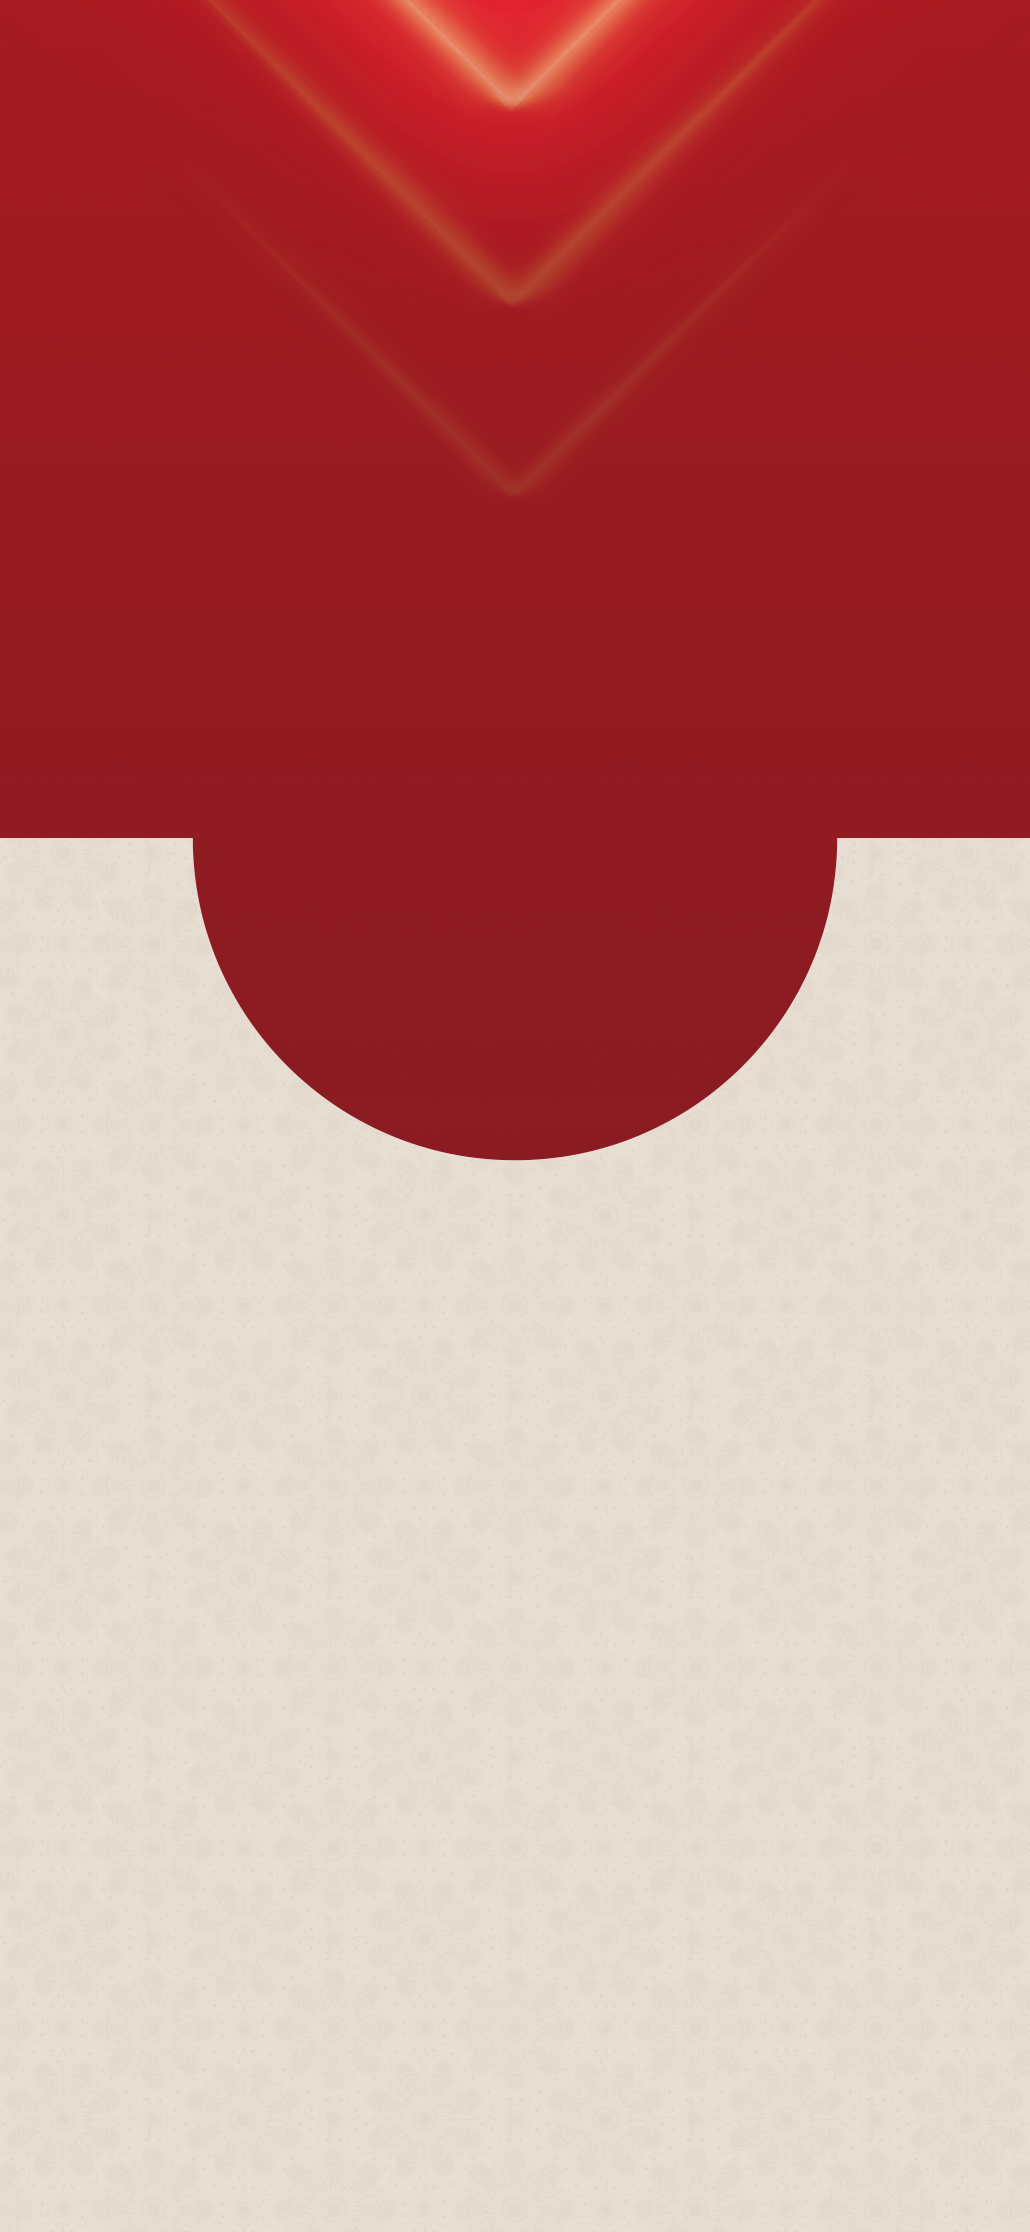
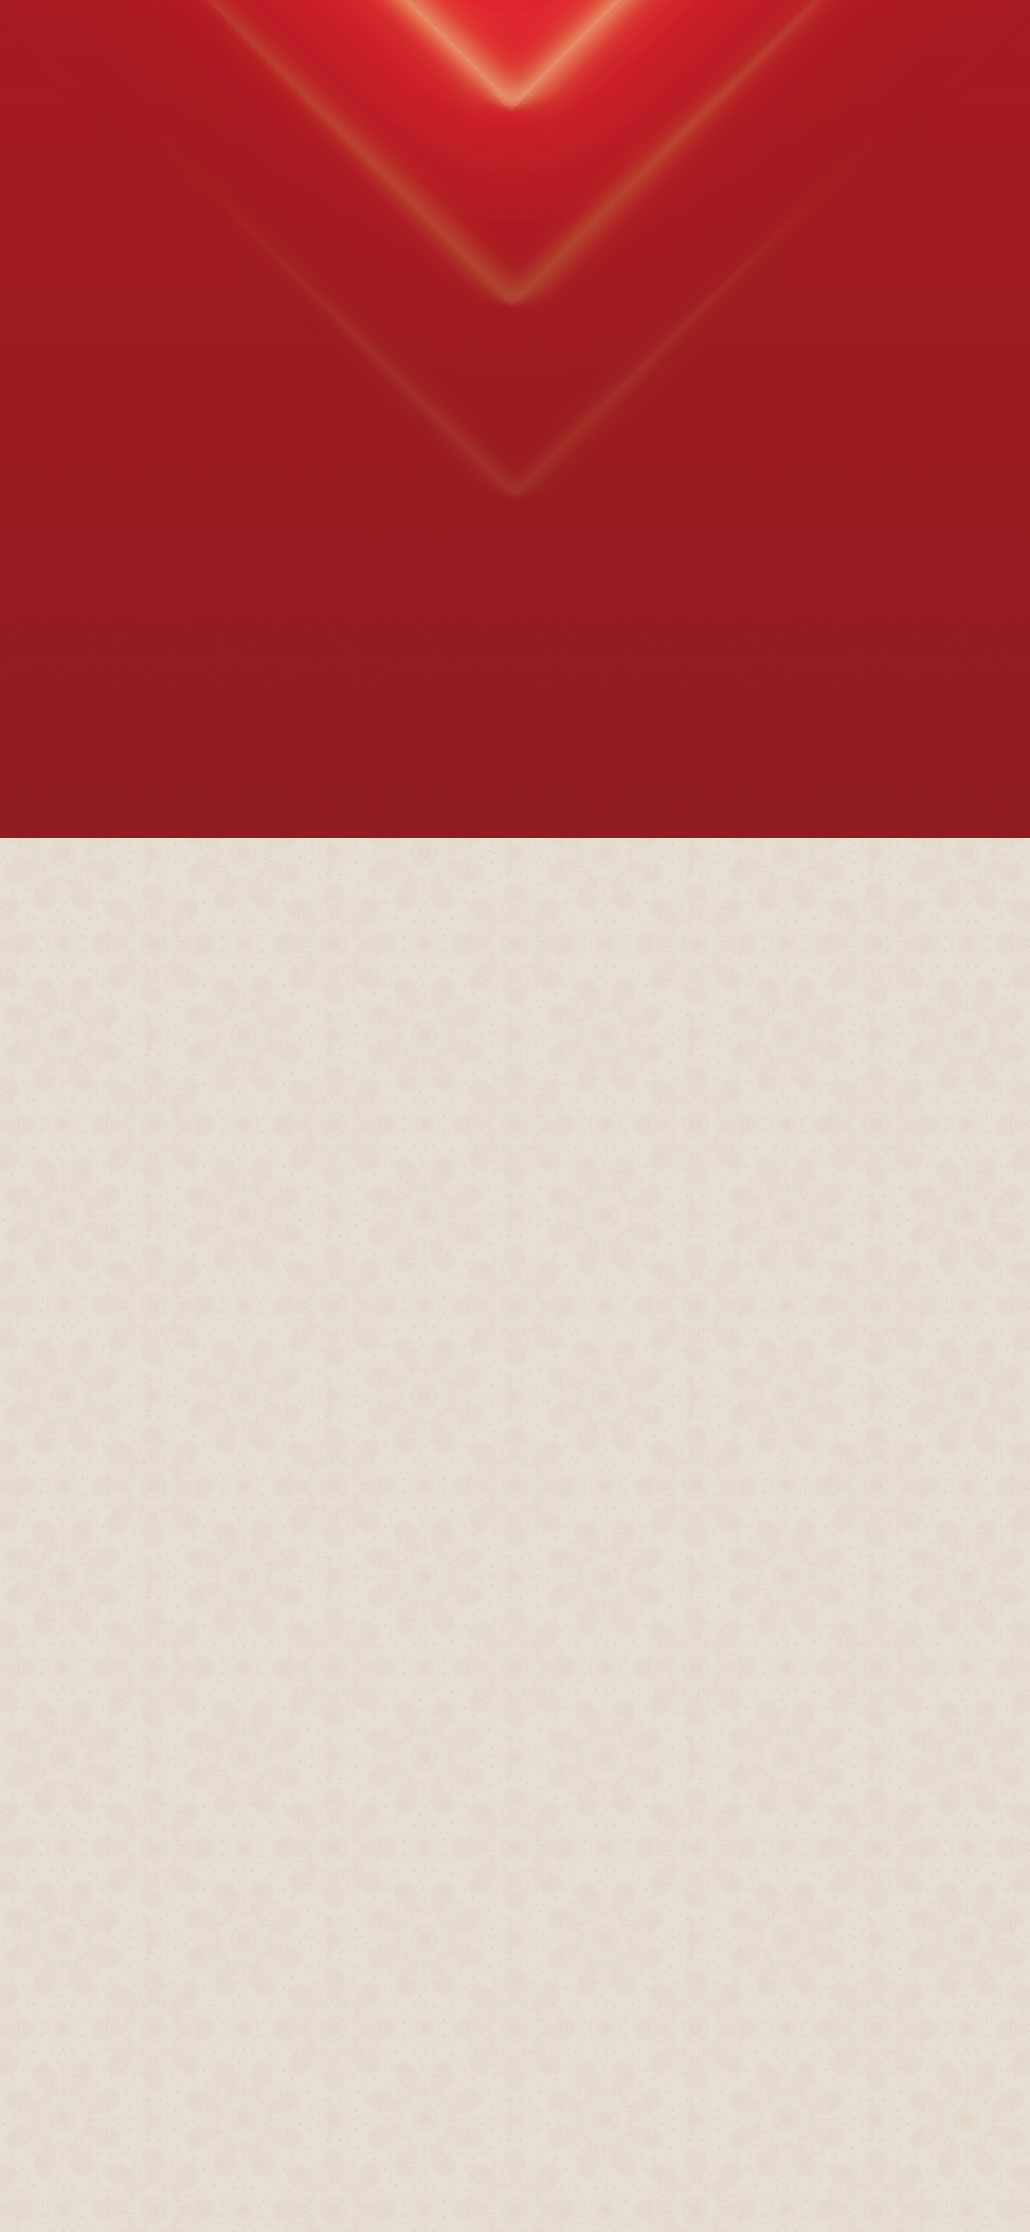
更改样式

Changed region(s): [[0.1864, 0.371, 0.8388, 0.5255]]

diff --git a/src/pages/detail/components/guoniang/detail/index.tsx b/src/pages/detail/components/guoniang/detail/index.tsx
@@ -3,7 +3,7 @@ import { Component } from "react";
 import { Back, LookDetail, Music, } from "@/pages/components";
 import "./index.less";
 import detail_title from "../imgs/title.png";
-import detail_product from "../imgs/product.png";
+import circle from '../imgs/circle.png';
 import detail_btitle from "../imgs/btitle.png";
 import img from '../imgs/detail.png';
 import alert from '../imgs/alert.png';
@@ -15,10 +15,8 @@ export const Detail = () => {
         <Back />
         <Music />
       </View>
-      <View className='guoniang_detail_main fadeOut'>
-        <View className='guoniang_detail_pic_product fadeOut'>
-          <Image src={detail_product} className='guoniang_detail_pic'></Image>
-        </View>
+      <Image src={circle} className='guoniang_detail_pic_product'></Image>
+      <View className='guoniang_detail_main '>
         <Image src={detail_title} className='guoniang_detail_t'></Image>
         <Image src={detail_btitle} className='guoniang_detail_bt'></Image>
       </View>

diff --git a/src/pages/detail/components/guoniang/detail/index.less b/src/pages/detail/components/guoniang/detail/index.less
@@ -19,19 +19,14 @@
     width: 100%;
     flex-direction: column;
     align-items: center;
-    justify-content: space-between;
-    height: 425px;
+    justify-content: flex-end;
+    // height: 425px;
   }
   .guoniang_detail_pic_product {
-    background: url(../imgs/bg2.png);
-    background-size: 75% 75%;
-    background-repeat: no-repeat;
-    background-position: center;
-    width: 100%;
-    height: 60%;
+    width: 233px;
+    height: 256px;
     border-radius: 50%;
     display: flex;
-    height: auto;
     align-items: center;
     justify-content: center;
     .guoniang_detail_pic {

diff --git a/src/pages/components/LookDetail/index.less b/src/pages/components/LookDetail/index.less
@@ -1,7 +1,7 @@
 .look_detail{
-  margin-bottom: 50px;
-  height: 52px;
-  width: 156px;
+  margin-bottom: 30px;
+  height: 40px;
+  width: 140px;
 }
 .look_alert{
   width: 300px;
